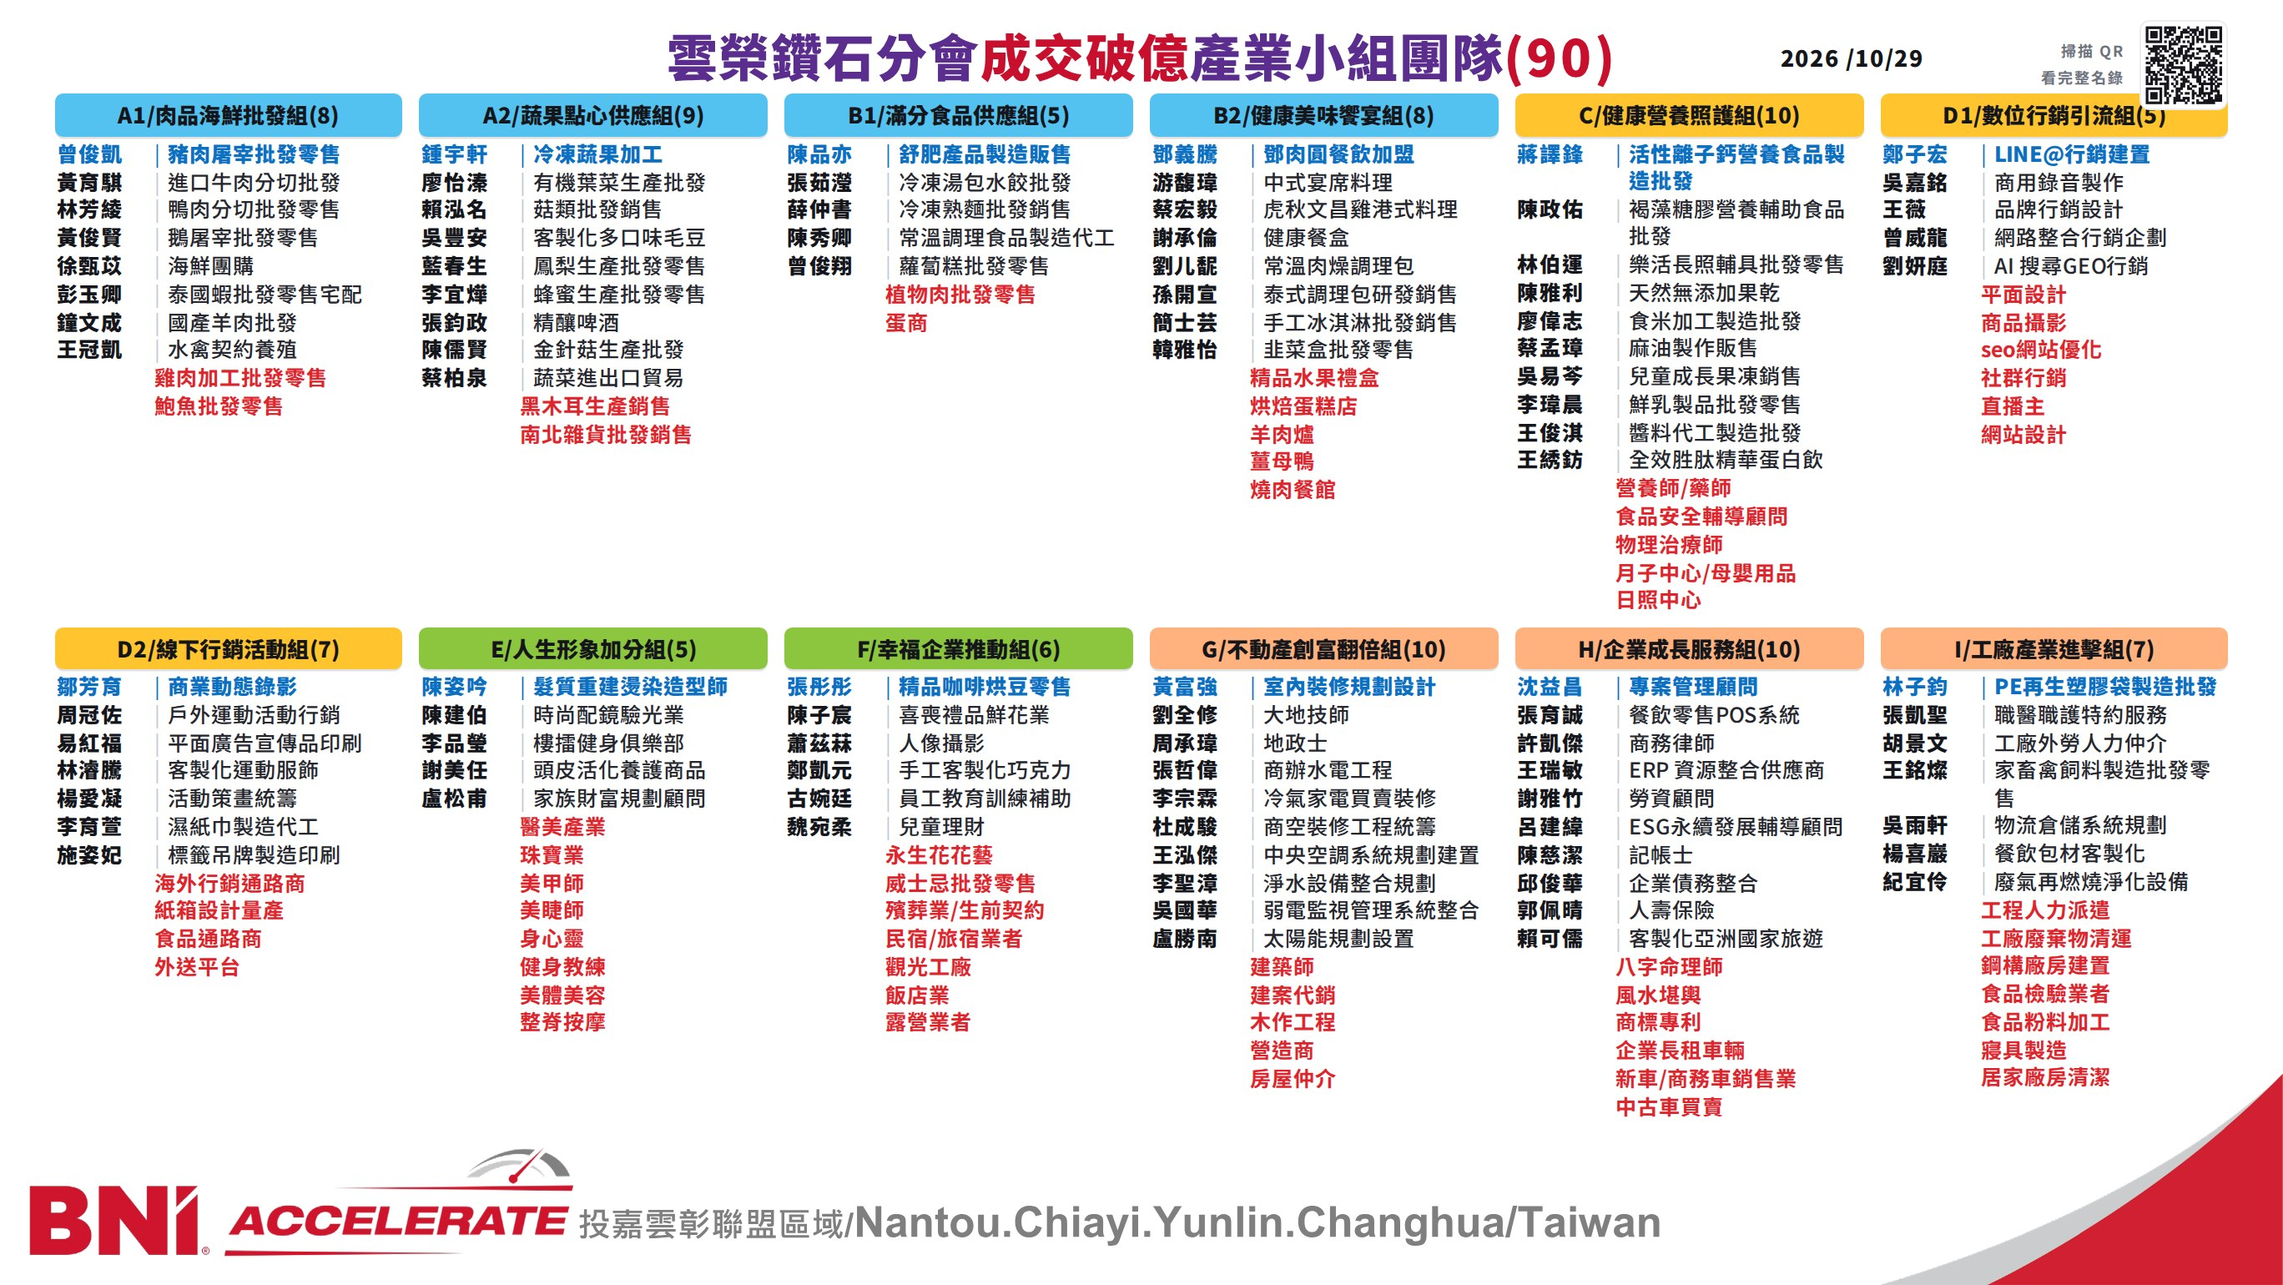
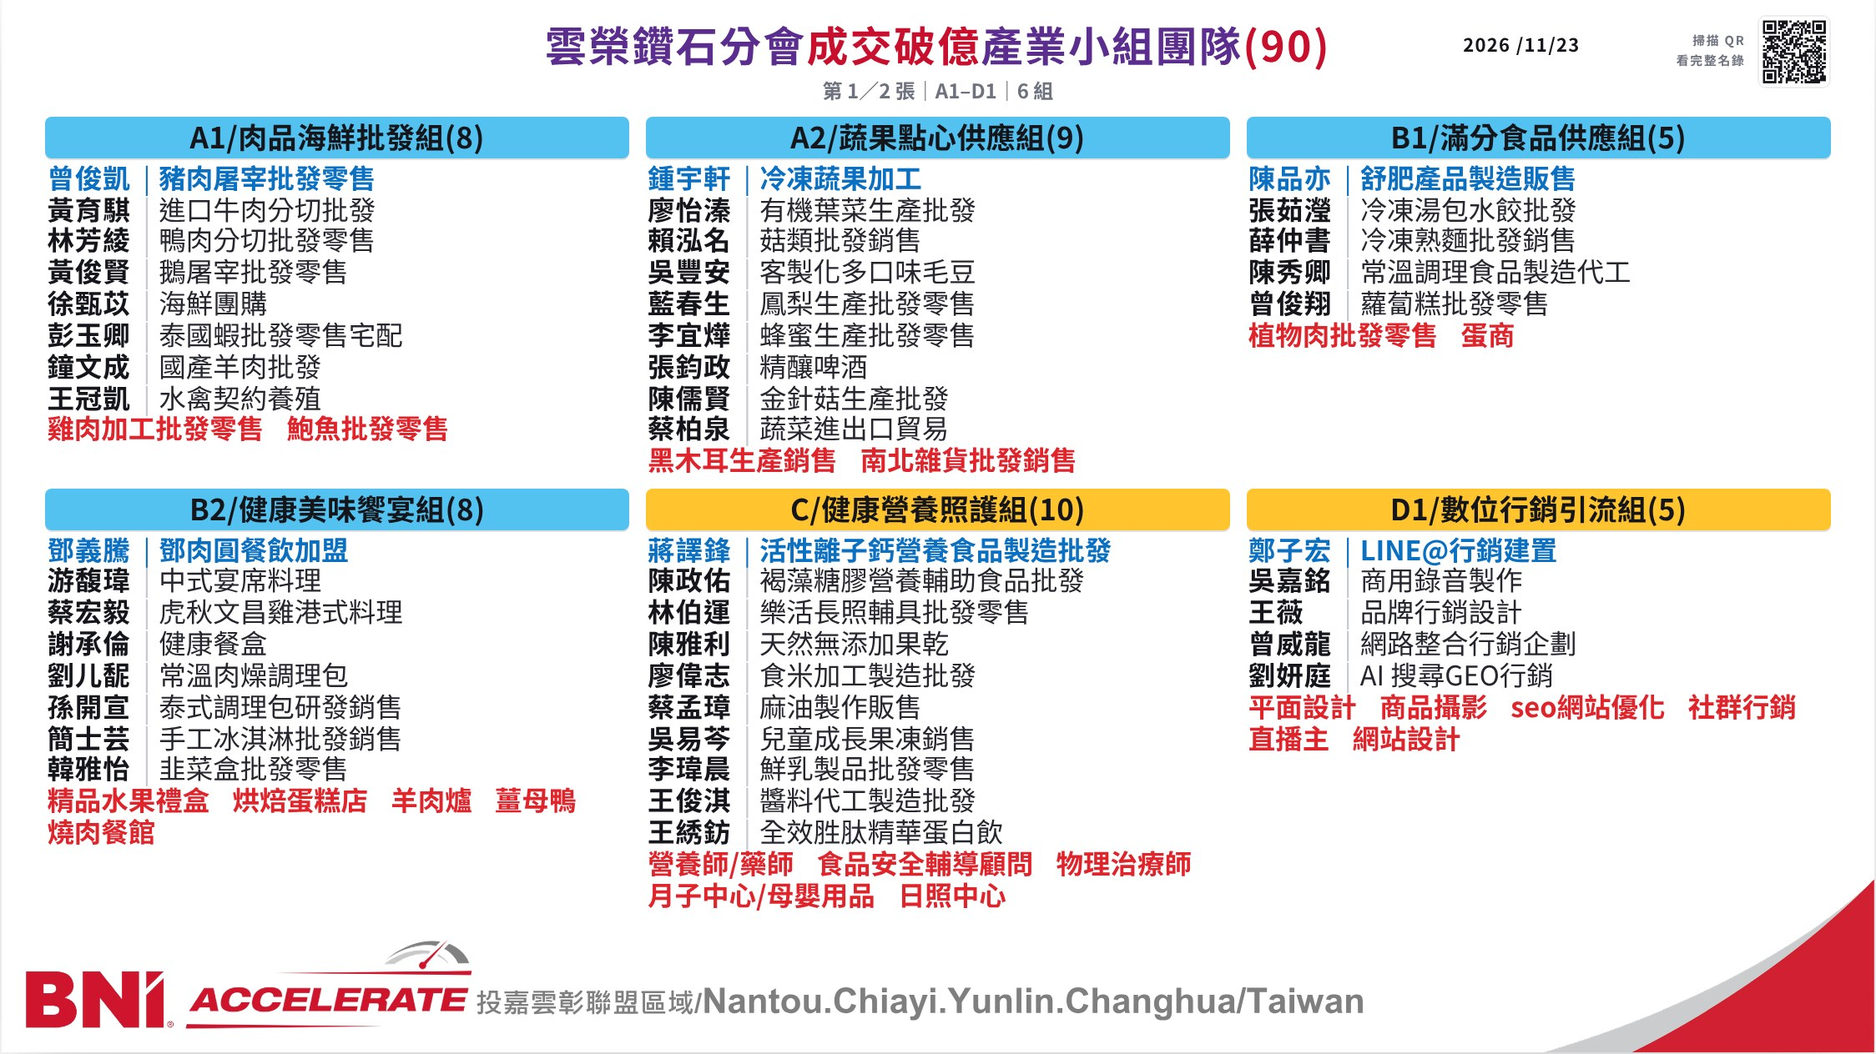
對內產業小組表分為兩張，統一採用第二張的大字級

diff --git a/groups.html b/groups.html
@@ -84,6 +84,9 @@
     align-content:start; --s:1;
   }
   .g{min-width:0;}
+  .sheet.internal .grid{grid-template-columns:repeat(3, minmax(0, 1fr));}
+  .internal-caption{display:none; margin:2px 0 5px; font-size:12px; font-weight:700; color:var(--muted);}
+  .sheet.internal .internal-caption{display:block;}
   .g-h{
     background:var(--gc, var(--c-blue));
     border-radius:4px; padding:calc(2.5px * var(--s)) 4px;
@@ -108,6 +111,16 @@
   /* 招募席位:紅字,無姓名、對齊專業別欄 */
   li.recruit{padding-left:calc(46px * var(--s));}
   li.recruit .t{color:var(--recruit); font-weight:700;}
+  /* 會員各佔一列，招募席位並排換行，把每張六組的空間留給大字。 */
+  .sheet.internal .g-h{
+    font-size:calc(14px * var(--s)); line-height:1.2; padding:2px 4px;
+  }
+  .sheet.internal .g-list{display:flex; flex-wrap:wrap; column-gap:.85em;}
+  .sheet.internal .g-list li{
+    width:100%; padding:0; font-size:calc(13px * var(--s)); line-height:var(--member-leading, 1.22);
+  }
+  .sheet.internal .g-list .recruit{width:auto; max-width:100%;}
+  .sheet.internal .t{overflow-wrap:anywhere;}
   .sheet.public .g-list li{
     display:block; padding:calc(1px * var(--s)) 0; line-height:1.12;
   }
@@ -149,7 +162,7 @@
        存 JPG 與列印都會先釘回桌面版面,所以產出物永遠帶底圖。 */
     .sheet{width:100%; height:auto; min-height:0; padding:14px;}
     .sheet-bg{display:none;}
-    .grid{grid-template-columns:repeat(2, 1fr);}
+    .grid, .sheet.internal:not(.exporting) .grid{grid-template-columns:repeat(2, 1fr);}
     .mast-date{position:static; display:block; margin-top:4px;}
     /* 字級由 fit() 把 --s 放大到 1.5(約 15px);手機寬度兩欄塞不下這個字級,改一欄。 */
     .sheet:not(.exporting) .mast-title{font-size:22px;}
@@ -161,10 +174,11 @@
      產出的會是直式長圖、甚至高度超過瀏覽器 canvas 上限而失敗 —— 偏偏這功能就是為
      iOS Safari/手機使用者而存在。這些選擇器比 @media screen 規則更具體,故能覆蓋它。
      (桌面本來就是這個版面,套上去沒有任何變化。) */
-  @media screen and (max-width:560px){ .grid{grid-template-columns:1fr;} }
+  @media screen and (max-width:560px){ .grid, .sheet.internal:not(.exporting) .grid{grid-template-columns:1fr;} }
   .sheet.exporting{width:297mm; height:167.06mm; min-height:0; padding:3mm 7mm 22mm;}
   .sheet.exporting .sheet-bg{display:block;}
   .sheet.exporting .grid{grid-template-columns:repeat(6, 1fr);}
+  .sheet.internal.exporting .grid{grid-template-columns:repeat(3, minmax(0, 1fr));}
   .sheet.exporting .mast-date{position:absolute; right:150px; top:8px; margin-top:0; display:block;}
   .sheet.exporting .foot{position:absolute; top:2.5mm; right:7mm; margin-top:0;}
   [hidden]{display:none !important;}
@@ -270,6 +284,10 @@
     <option value="public">對外產業小組圖｜舊六欄總覽</option>
     <option value="public-large">對外產業小組圖｜每組大字版</option>
   </select>
+  <span id="internal-page-picker" hidden>
+    <label class="mode-label" for="internal-page-select">內部圖頁次</label>
+    <select class="tbtn" id="internal-page-select"></select>
+  </span>
   <span id="group-picker" hidden>
     <label class="mode-label" for="group-select">產業小組</label>
     <select class="tbtn" id="group-select"></select>
@@ -292,6 +310,7 @@
   <img class="sheet-bg" src="group-sheet-bg.svg?v=1" alt="" aria-hidden="true">
   <header class="mast">
     <h1 class="mast-title" id="mast-title" contenteditable="true" spellcheck="false"></h1>
+    <div class="internal-caption"></div>
     <div class="mast-date" id="sheet-date" contenteditable="true" spellcheck="false"></div>
   </header>
   <div class="grid" id="grid"></div>
@@ -309,7 +328,7 @@
 <script src="data.js?v=f54afb67"></script>
 <script src="data-fresh.js?v=1"></script>
 <script src="qrcode.js"></script>
-<script src="groups-view.js?v=1"></script>
+<script src="groups-view.js?v=2"></script>
 <script>
 (function(){
   "use strict";
@@ -318,6 +337,9 @@
   var total = GROUPS.reduce(function(n,g){ return n + g.members.length; }, 0);
   var requestedMode = new URL(location.href).searchParams.get("view");
   var mode = ["public", "public-large", "public-single"].indexOf(requestedMode) >= 0 ? requestedMode : "internal";
+  var internalPages = GroupSheet.internalPages(GROUPS);
+  var requestedPage = Number(new URL(location.href).searchParams.get("page"));
+  var internalPage = Number.isInteger(requestedPage) && requestedPage >= 1 && requestedPage <= internalPages.length ? requestedPage : 1;
   var requestedGroup = new URL(location.href).searchParams.get("group");
   var groupCode = GROUPS.some(function(g){ return g.code === requestedGroup; }) ? requestedGroup : GROUPS[0].code;
   var titles = {
@@ -328,6 +350,14 @@
   };
   var modeSelect = document.getElementById("view-mode");
   var groupSelect = document.getElementById("group-select");
+  var internalPageSelect = document.getElementById("internal-page-select");
+  function internalCaption(index){
+    var groups = internalPages[index];
+    return "第 " + (index + 1) + "／" + internalPages.length + " 張｜" + groups[0].code + "–" + groups[groups.length - 1].code + "｜" + groups.length + " 組";
+  }
+  internalPageSelect.innerHTML = internalPages.map(function(groups, i){
+    return '<option value="' + (i + 1) + '">' + esc(internalCaption(i)) + "</option>";
+  }).join("");
   groupSelect.innerHTML = GROUPS.map(function(g){
     return '<option value="' + esc(g.code) + '">' + esc(g.code + "／" + g.name) + "</option>";
   }).join("");
@@ -341,19 +371,26 @@
     var external = mode !== "internal", large = mode === "public-large", single = mode === "public-single";
     modeSelect.value = mode;
     groupSelect.value = groupCode;
+    internalPageSelect.value = String(internalPage);
+    document.getElementById("internal-page-picker").hidden = external;
+    document.getElementById("btn-jpg").textContent = external ? "🖼 存成 JPG" : "🖼 存第 " + internalPage + " 張 JPG";
+    document.getElementById("btn-print").textContent = external ? "🖨 列印/存 PDF" : "🖨 全部 " + internalPages.length + " 張列印/存 PDF";
     document.getElementById("group-picker").hidden = !large;
     document.getElementById("btn-print-all").hidden = !large;
     document.getElementById("btn-png").hidden = !single;
     document.querySelector(".toolbar .tip").textContent = single ?
       "橫式完整單張：姓名下列出公司與已填職稱，可存 JPG／PNG 或單頁橫式 PDF。" : large ?
       "每組一張大字長圖。姓名、公司、職位完整換行；可選組存 JPG，或將全部小組存為多頁 PDF。" :
-      "標題與日期可點一下改字；總覽可存 JPG 或列印。";
+      external ? "標題與日期可點一下改字；總覽可存 JPG 或列印。" :
+      "依目前順序每 6 組一張；選擇頁次分別存 JPG，列印／PDF 會包含全部頁次。標題與日期可點一下改字。";
     document.title = (external ? "對外產業小組圖" : "產業小組表") + "｜" + SITE.ORG_NAME;
+    sheet.classList.toggle("internal", !external);
     sheet.classList.toggle("public", external);
     sheet.classList.toggle("large", large);
     sheet.classList.toggle("single", single);
     document.getElementById("mast-title").innerHTML = titles[mode];
-    grid.innerHTML = GroupSheet.renderGroups(large ? GROUPS.filter(function(g){ return g.code === groupCode; }) : GROUPS,
+    sheet.querySelector(".internal-caption").textContent = internalCaption(internalPage - 1);
+    grid.innerHTML = GroupSheet.renderGroups(!external ? internalPages[internalPage - 1] : large ? GROUPS.filter(function(g){ return g.code === groupCode; }) : GROUPS,
       single ? "public-single" : external ? "public" : "internal");
     if(single) balanceSingle();
     status.dataset.state = "ready";
@@ -392,15 +429,35 @@
   var grid = document.getElementById("grid");
   var sheet = document.querySelector(".sheet");
   var scale = 1, guard = 0;
-  function overflowPx(){
+  function overflowPx(targetGrid){
+    targetGrid = targetGrid || grid;
     var mx = 0;
-    document.querySelectorAll(".g").forEach(function(e){
+    targetGrid.querySelectorAll(".g").forEach(function(e){
       var b = e.getBoundingClientRect().bottom;
       if(b > mx) mx = b;
     });
-    return mx - grid.getBoundingClientRect().bottom;
+    return mx - targetGrid.getBoundingClientRect().bottom;
   }
-  function setScale(v){ scale = v; grid.style.setProperty("--s", scale.toFixed(2)); }
+  function setScale(v, targetGrid){ scale = v; (targetGrid || grid).style.setProperty("--s", scale.toFixed(2)); }
+  function fitGrid(targetGrid){
+    if(targetGrid.closest(".sheet.internal")){
+      // 以原第二張的字級排版；列印的 279mm 版心依比例縮小。
+      var targetScale = targetGrid.closest("#large-print") ? 1.25 * 279 / 297 : 1.25;
+      setScale(targetScale, targetGrid);
+      targetGrid.style.removeProperty("--member-leading");
+      if(overflowPx(targetGrid) > 2){
+        targetGrid.style.setProperty("--member-leading", "1.16");
+        // 日後會員增加時，先收行距，仍放不下才逐步縮字。
+        while(overflowPx(targetGrid) > 2 && scale > 0.6) setScale(scale - 0.01, targetGrid);
+      }
+      return;
+    }
+    guard = 0; setScale(1, targetGrid);
+    while(overflowPx(targetGrid) > 2 && scale > 0.6 && guard < 26){ setScale(scale - 0.03, targetGrid); guard++; }
+    guard = 0;
+    while(overflowPx(targetGrid) < -2 && scale < 1.6 && guard < 80){ setScale(scale + 0.01, targetGrid); guard++; }
+    if(overflowPx(targetGrid) > 2 && scale > 0.61) setScale(scale - 0.01, targetGrid);
+  }
   function balanceSingle(){
     var blocks = Array.prototype.slice.call(grid.querySelectorAll(".g"));
     blocks.forEach(function(el, i){ el.style.setProperty("--i", i); });
@@ -424,6 +481,7 @@
   }
   function fit(){
     sheet.style.zoom = "";
+    grid.style.removeProperty("--member-leading");
     if(mode === "public-single"){
       setScale(1);
       if(!sheet.classList.contains("exporting") && !window.matchMedia("print").matches &&
@@ -434,11 +492,7 @@
     if(mode === "public-large"){ setScale(1); return; }
     if(!sheet.classList.contains("exporting") && !window.matchMedia("print").matches &&
        window.matchMedia("(max-width:900px)").matches){ setScale(1.5); return; }
-    guard = 0; setScale(1);
-    while(overflowPx() > 2 && scale > 0.6 && guard < 26){ setScale(scale - 0.03); guard++; }
-    guard = 0;
-    while(overflowPx() < -2 && scale < 1.6 && guard < 80){ setScale(scale + 0.01); guard++; }
-    if(overflowPx() > 2 && scale > 0.61) setScale(scale - 0.01);
+    fitGrid(grid);
     /* 內部表海報固定 297mm(約 1123px)寬,大螢幕上整張等比放大到填滿視窗寬:版面與存圖/列印
        完全相同,只是字跟著變大。縮放在量完溢出之後才套,不影響上面的排版計算。
        舊六欄對外圖字級被壓到 0.6 倍,放大 1.25 倍也只有 7px,改看「橫式完整單張」才是解,這裡不放大。 */
@@ -456,6 +510,16 @@
     else url.searchParams.delete("view");
     if(mode === "public-large") url.searchParams.set("group", groupCode);
     else url.searchParams.delete("group");
+    if(mode === "internal") url.searchParams.set("page", internalPage);
+    else url.searchParams.delete("page");
+    history.replaceState(null, "", url.href);
+    render();
+  });
+  internalPageSelect.addEventListener("change", function(){
+    titles[mode] = document.getElementById("mast-title").innerHTML;
+    internalPage = Number(internalPageSelect.value);
+    var url = new URL(location.href);
+    url.searchParams.set("page", internalPage);
     history.replaceState(null, "", url.href);
     render();
   });
@@ -476,6 +540,24 @@
   function setPrintSize(height, width){
     document.getElementById("large-page-size").textContent =
       "@page{size:" + (width || 390) + "px " + Math.ceil(height + 2) + "px;margin:0;}";
+  }
+  function prepareInternalPrint(){
+    clearPrintAll();
+    var container = document.getElementById("large-print");
+    internalPages.forEach(function(groups, i){
+      var copy = sheet.cloneNode(true);
+      copy.classList.add("exporting");
+      copy.style.cssText = "zoom:1;width:279mm;height:156.94mm;padding:3mm 6.5mm 20.7mm;margin:0";
+      copy.querySelector(".grid").innerHTML = GroupSheet.renderGroups(groups, "internal");
+      copy.querySelector(".internal-caption").textContent = internalCaption(i);
+      copy.querySelectorAll("[id]").forEach(function(el){ el.removeAttribute("id"); });
+      copy.querySelector("canvas").getContext("2d").drawImage(document.getElementById("foot-qr-canvas"), 0, 0);
+      container.appendChild(copy);
+    });
+    container.style.cssText = "display:block;position:absolute;left:-10000px;top:0";
+    container.querySelectorAll(".grid").forEach(fitGrid);
+    container.style.cssText = "";
+    document.body.classList.add("print-all");
   }
   function printAll(){
     if(mode !== "public-large") return;
@@ -503,6 +585,7 @@
   }
   document.getElementById("btn-print-all").addEventListener("click", printAll);
   window.addEventListener("beforeprint", function(){
+    if(mode === "internal"){ prepareInternalPrint(); return; }
     if(mode === "public-single"){
       sheet.classList.add("exporting"); fit();
       setPrintSize(sheet.getBoundingClientRect().height, 2200);
@@ -657,7 +740,7 @@
       var name = (SITE.ORG_NAME || "產業小組表").replace(/[\\/:*?"<>|]/g, "") +
         (mode === "public-single" ? "_對外產業小組完整單張.jpg" :
           mode === "public-large" ? "_" + groupCode + "_對外產業小組大字圖.jpg" :
-          mode === "public" ? "_對外產業小組圖.jpg" : "_產業小組表.jpg");
+          mode === "public" ? "_對外產業小組圖.jpg" : "_產業小組表_第" + internalPage + "張.jpg");
       if(png) name = name.replace(/\.jpg$/, ".png");
       var done = function(url, revoke){
         var a = document.createElement("a");

diff --git a/groups-view.js b/groups-view.js
@@ -20,6 +20,11 @@
     if(ch === "E" || ch === "F") return "var(--c-green)";
     return "var(--c-peach)";
   }
+  function internalPages(groups){
+    var pages = [];
+    for(var i = 0; i < groups.length; i += 6) pages.push(groups.slice(i, i + 6));
+    return pages;
+  }
   function renderGroups(groups, mode){
     var single = mode === "public-single", external = mode === "public" || single, html = "";
     groups.forEach(function(g){
@@ -48,7 +53,7 @@
     });
     return html;
   }
-  var api = { publicProfile: publicProfile, renderGroups: renderGroups };
+  var api = { publicProfile: publicProfile, renderGroups: renderGroups, internalPages: internalPages };
   if(typeof module !== "undefined") module.exports = api;
   else root.GroupSheet = api;
 })(typeof globalThis !== "undefined" ? globalThis : this);

diff --git a/README.md b/README.md
@@ -693,7 +693,7 @@ setupPhotoCleanupTrigger()   // 確認沒問題再排定，每月 1 號凌晨執
 - **鐘文成**（A1・205）原始投影片沒有照片，顯示「照片待補」。
 - **蕭淑芬**（F・000）原始投影片內容與另一位成員重複，已標記 `dataIssue`，待本人確認。
 
-## 產業小組表的圖片版（groups.jpg）
+## 產業小組表的圖片版（groups.jpg、groups-2.jpg）
 
 公司及獨立公司職稱已整合進會員主資料：`company`／`companyPosition`；`title` 保留為專業別。
 管理頁可編輯公司內職稱，暫存、備份、CSV 和重建 `data.js` 都會保留。
@@ -707,7 +707,10 @@ setupPhotoCleanupTrigger()   // 確認沒問題再排定，每月 1 號凌晨執
 姓名下顯示公司與有來源的公司職位，缺資料明示待補；不以專業別或 BNI 職務代替。
 選擇小組後存成 1170px 寬的 JPG 長圖，或按「全部小組存 PDF」輸出每組一頁的長頁 PDF。
 姓名／公司／職位固定 28／20／18px，長公司完整換行並增加圖片高度；沒有縮字或省略名稱。
-工具列仍保留內部原圖及 `groups.html?view=public` 對外總覽，總覽為 16:9 JPG／A4 橫式 PDF。
+內部產業小組表 `groups.html` 依目前組別順序拆成兩張：前 6 組一張、後 6 組一張，每張 3 欄 × 2 列。
+工具列的「內部圖頁次」可切換，分別按「存第 1 張 JPG」／「存第 2 張 JPG」下載；每張保留組長藍字、招募紅字、品牌底圖與 QR。
+`groups.html?page=2` 可直接開第二張；標題與日期的修改會在兩張共用，「全部 2 張列印/存 PDF」會輸出兩頁 A4 橫式。
+工具列另保留 `groups.html?view=public` 對外總覽，對外各版本不變。
 本機批次輸出全部圖片、離線預覽及 PDF：`node tools/render-public-groups.mjs`（需 Playwright；
 `GROUPS_ARTIFACT_DIR` 指定輸出資料夾，預設系統暫存目錄）。這個工具只服務本機頁面、封鎖外部請求，
 不會把對外圖片寫入正式發布流程。來源、補資料方式與目前限制見
@@ -718,9 +721,11 @@ setupPhotoCleanupTrigger()   // 確認沒問題再排定，每月 1 號凌晨執
 
 | 檔案 | 內容 |
 |------|------|
-| `groups.jpg` | 16:9 海報,約 2245×1263,跟網頁 100% 一致(同一份 HTML/CSS/字體/底圖) |
-| `groups.json` | `{ dataVersion, renderedAt, image, width, height, groups }`;`dataVersion` 就是 `data-version.txt` 的值,外部系統比對它就知道名錄有沒有變,不用下載圖 |
+| `groups.jpg` | 內部第 1 張，依序前 6 組；16:9 海報，約 2245×1263 |
+| `groups-2.jpg` | 內部第 2 張，依序後 6 組；尺寸與第 1 張相同 |
+| `groups.json` | `images` 列出全部圖片的檔名、頁次、尺寸和組別；`groups` 是總組數。舊欄位 `image`／`width`／`height` 仍指第 1 張。`dataVersion` 是名錄資料版本，`layout` 是版型版本 |
 
-- 名錄版本沒變時不重畫、不提交(海報上印的是渲染日期,否則每次跑都會多一筆只差日期的提交)。
+- 外部系統要顯示完整名錄，請依 `groups.json` 的 `images` 逐張取圖；只讀原本 `image` 或 `groups.jpg` 會顯示前 6 組。
+- 名錄版本及版型沒變、且所有圖片都存在時不重畫、不提交(海報上印的是渲染日期,否則每次跑都會多一筆只差日期的提交)。
 - `groups.html`、底圖、`site-config.js` 被直接修改,或手動觸發 workflow 時,會強制重畫。
-- 本機測試:`python3 -m http.server 8000 &` 後執行 `node tools/render-groups.mjs`(需先 `npm i playwright` 並 `npx playwright install chromium`)。
+- 本機測試：先執行 `python3 -m http.server 8000`，再執行 `GROUPS_ARTIFACT_DIR=/tmp/member-groups FORCE=1 node tools/render-groups.mjs`（需 Playwright／Chromium；可用 `PLAYWRIGHT_MODULE`、`CHROMIUM_PATH` 指定既有安裝）。省略 `GROUPS_ARTIFACT_DIR` 會更新 repo 根目錄的正式圖片與 metadata。
